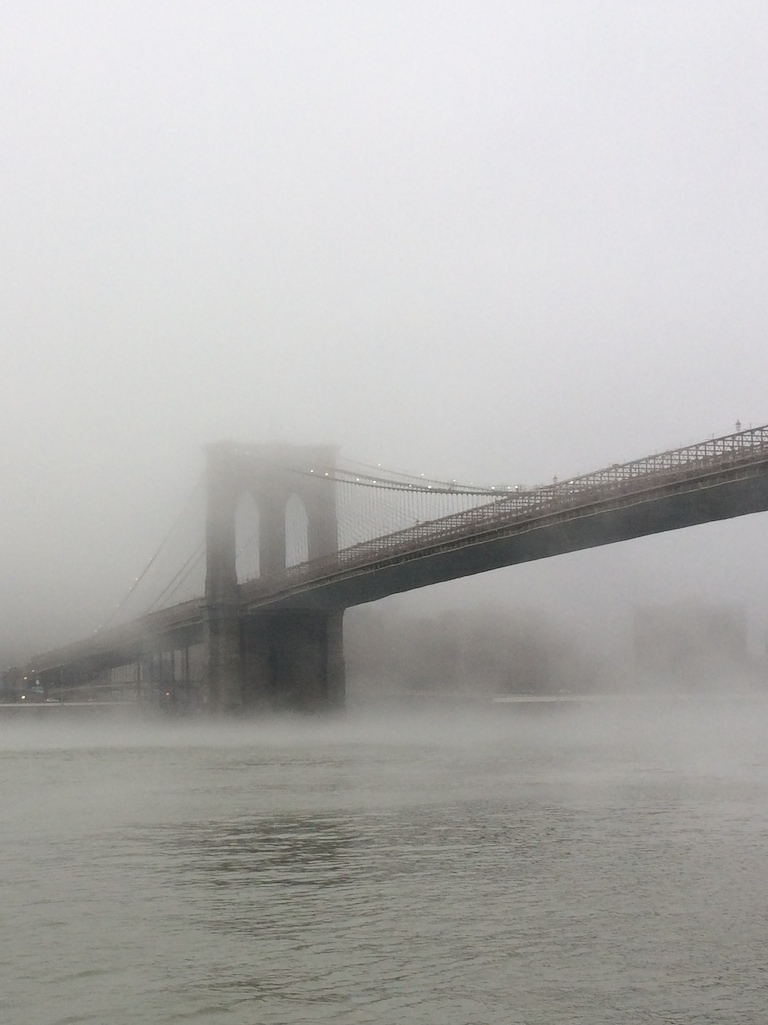
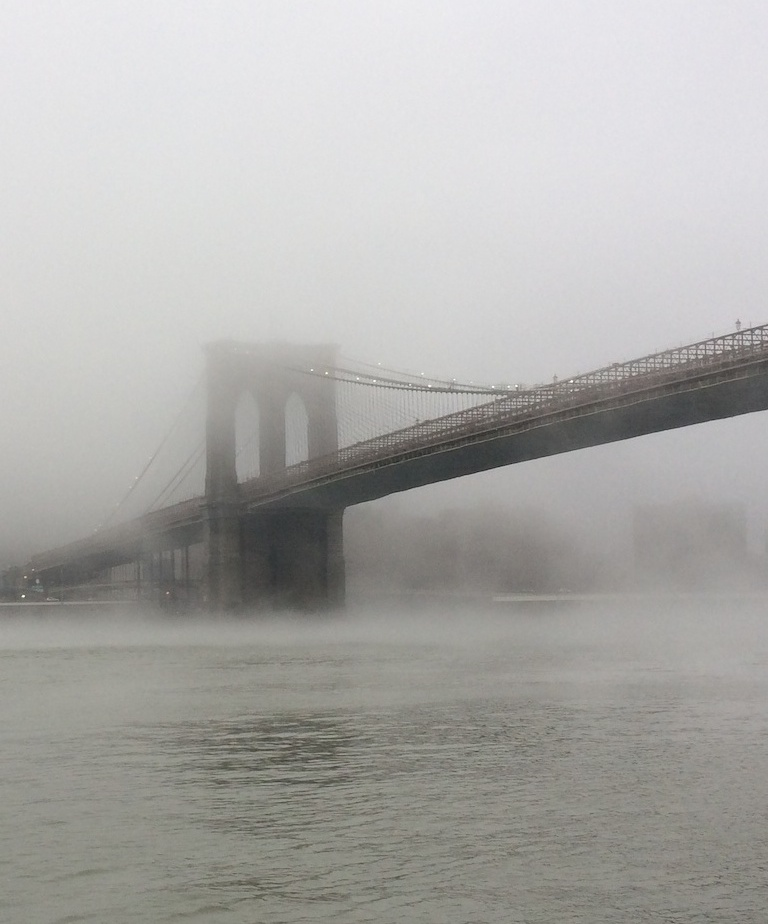
removes h1 in mobile

diff --git a/css/style.css b/css/style.css
@@ -196,7 +196,7 @@
 
 .home {
   width: 100%;
-  height: 700px;
+  height: 1200px;
   background: url("../img/bkbridge.jpg") no-repeat center center fixed;
   -webkit-background-size: cover;
   -moz-background-size: cover;
@@ -568,13 +568,6 @@
     .about img:last-child {
       margin-right: 0%; } }
 @media screen and (max-width: 600px) {
-  .home {
-    background: url("../img/bkbridge_portrait.jpg") no-repeat center center fixed;
-    -webkit-background-size: cover;
-    -moz-background-size: cover;
-    -o-background-size: cover;
-    background-size: cover; }
-
   .navbar {
     display: block;
     clear: both;
@@ -637,7 +630,7 @@
         margin-right: auto; }
 
   .about h1 {
-    font-size: 1.5em; }
+    display: none; }
   .about section {
     *zoom: 1;
     display: inline;
@@ -657,8 +650,18 @@
     .about section:last-child {
       margin-right: 0%; }
     .about section img {
-      float: right; } }
+      float: right; }
+
+  .portfolio h1 {
+    display: none; } }
 @media screen and (max-width: 320px) {
+  .home {
+    background: url("../img/bkbridge_portrait.jpg") no-repeat center center fixed;
+    -webkit-background-size: cover;
+    -moz-background-size: cover;
+    -o-background-size: cover;
+    background-size: cover; }
+
   .navbar {
     height: 100px; }
     .navbar .brand {
@@ -673,9 +676,9 @@
     width: 100%;
     padding-left: 0;
     padding-right: 0;
-    margin-left: 10.3%;
+    margin-left: 5.15%;
     margin-right: 3%;
-    top: 325px;
+    top: 125px;
     text-shadow: 1px 1px 2px white; }
     .home h2:before, .home h2:after {
       content: '';

diff --git a/css/style.scss b/css/style.scss
@@ -65,7 +65,7 @@
 
 .home {
   width: 100%;
-  height: 700px;
+  height: 1200px;
   // background-image: url("../img/bkbridge.jpg");
   background: url("../img/bkbridge.jpg") no-repeat center center fixed; 
   -webkit-background-size: cover;
@@ -219,13 +219,6 @@
 }
 
 @media screen and (max-width: 600px) {
-  .home {
-    background: url("../img/bkbridge_portrait.jpg") no-repeat center center fixed; 
-    -webkit-background-size: cover;
-    -moz-background-size: cover;
-    -o-background-size: cover;
-    background-size: cover;
-  }
   .navbar {
     @include stack();
     height: 120px;
@@ -241,7 +234,7 @@
   }
   .about {
     h1 {
-      font-size:1.5em;
+      display: none;
     }
     section {
       @include col(1);
@@ -258,8 +251,20 @@
     // background:rgba(192,192,192, .95);
     // height:700px;
   }
+  .portfolio {
+    h1 {
+      display: none;
+    }
+  }
 }
 @media screen and (max-width: 320px) {
+  .home {
+    background: url("../img/bkbridge_portrait.jpg") no-repeat center center fixed; 
+    -webkit-background-size: cover;
+    -moz-background-size: cover;
+    -o-background-size: cover;
+    background-size: cover;
+  }
   .navbar {
     height: 100px;
     .brand {
@@ -268,8 +273,8 @@
   }
   .home {  
     h2 {
-      @include col(1, $offset: .1);
-      top:325px;
+      @include col(1, $offset: .05);
+      top:125px;
       text-shadow: 1px 1px 2px rgba(255, 255, 255, 1);
       span {
         padding-left:0px;
